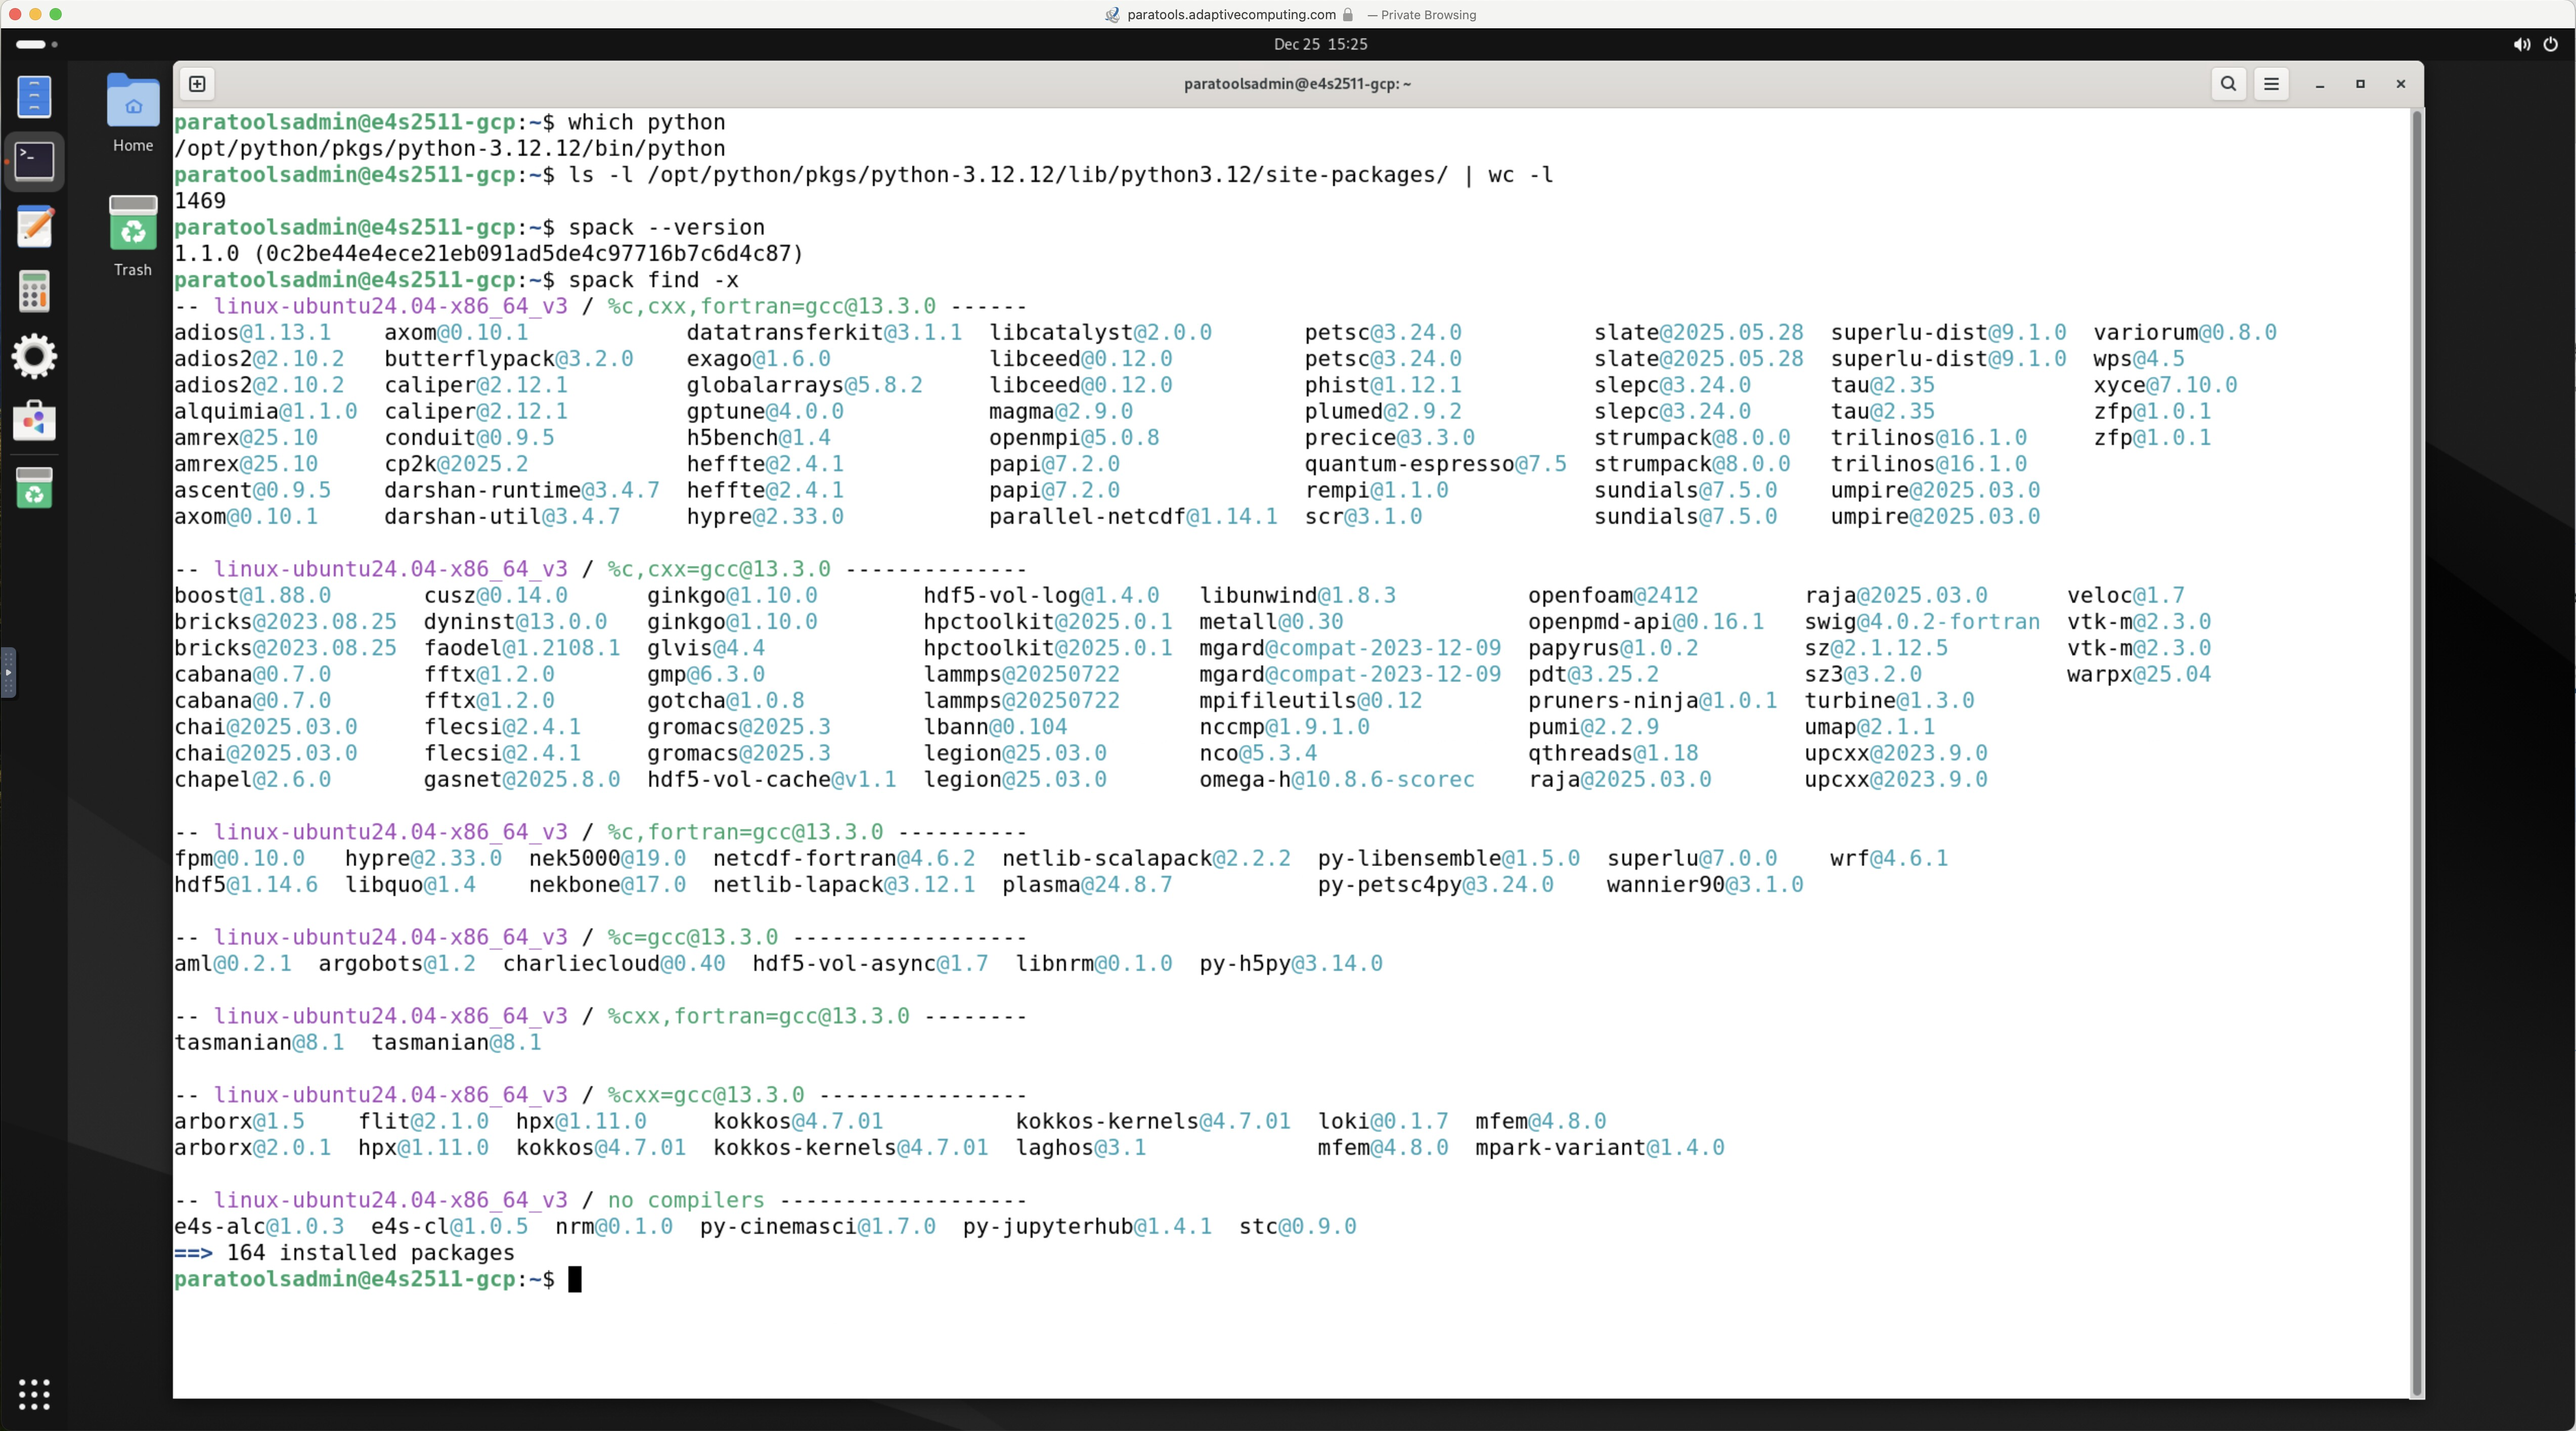
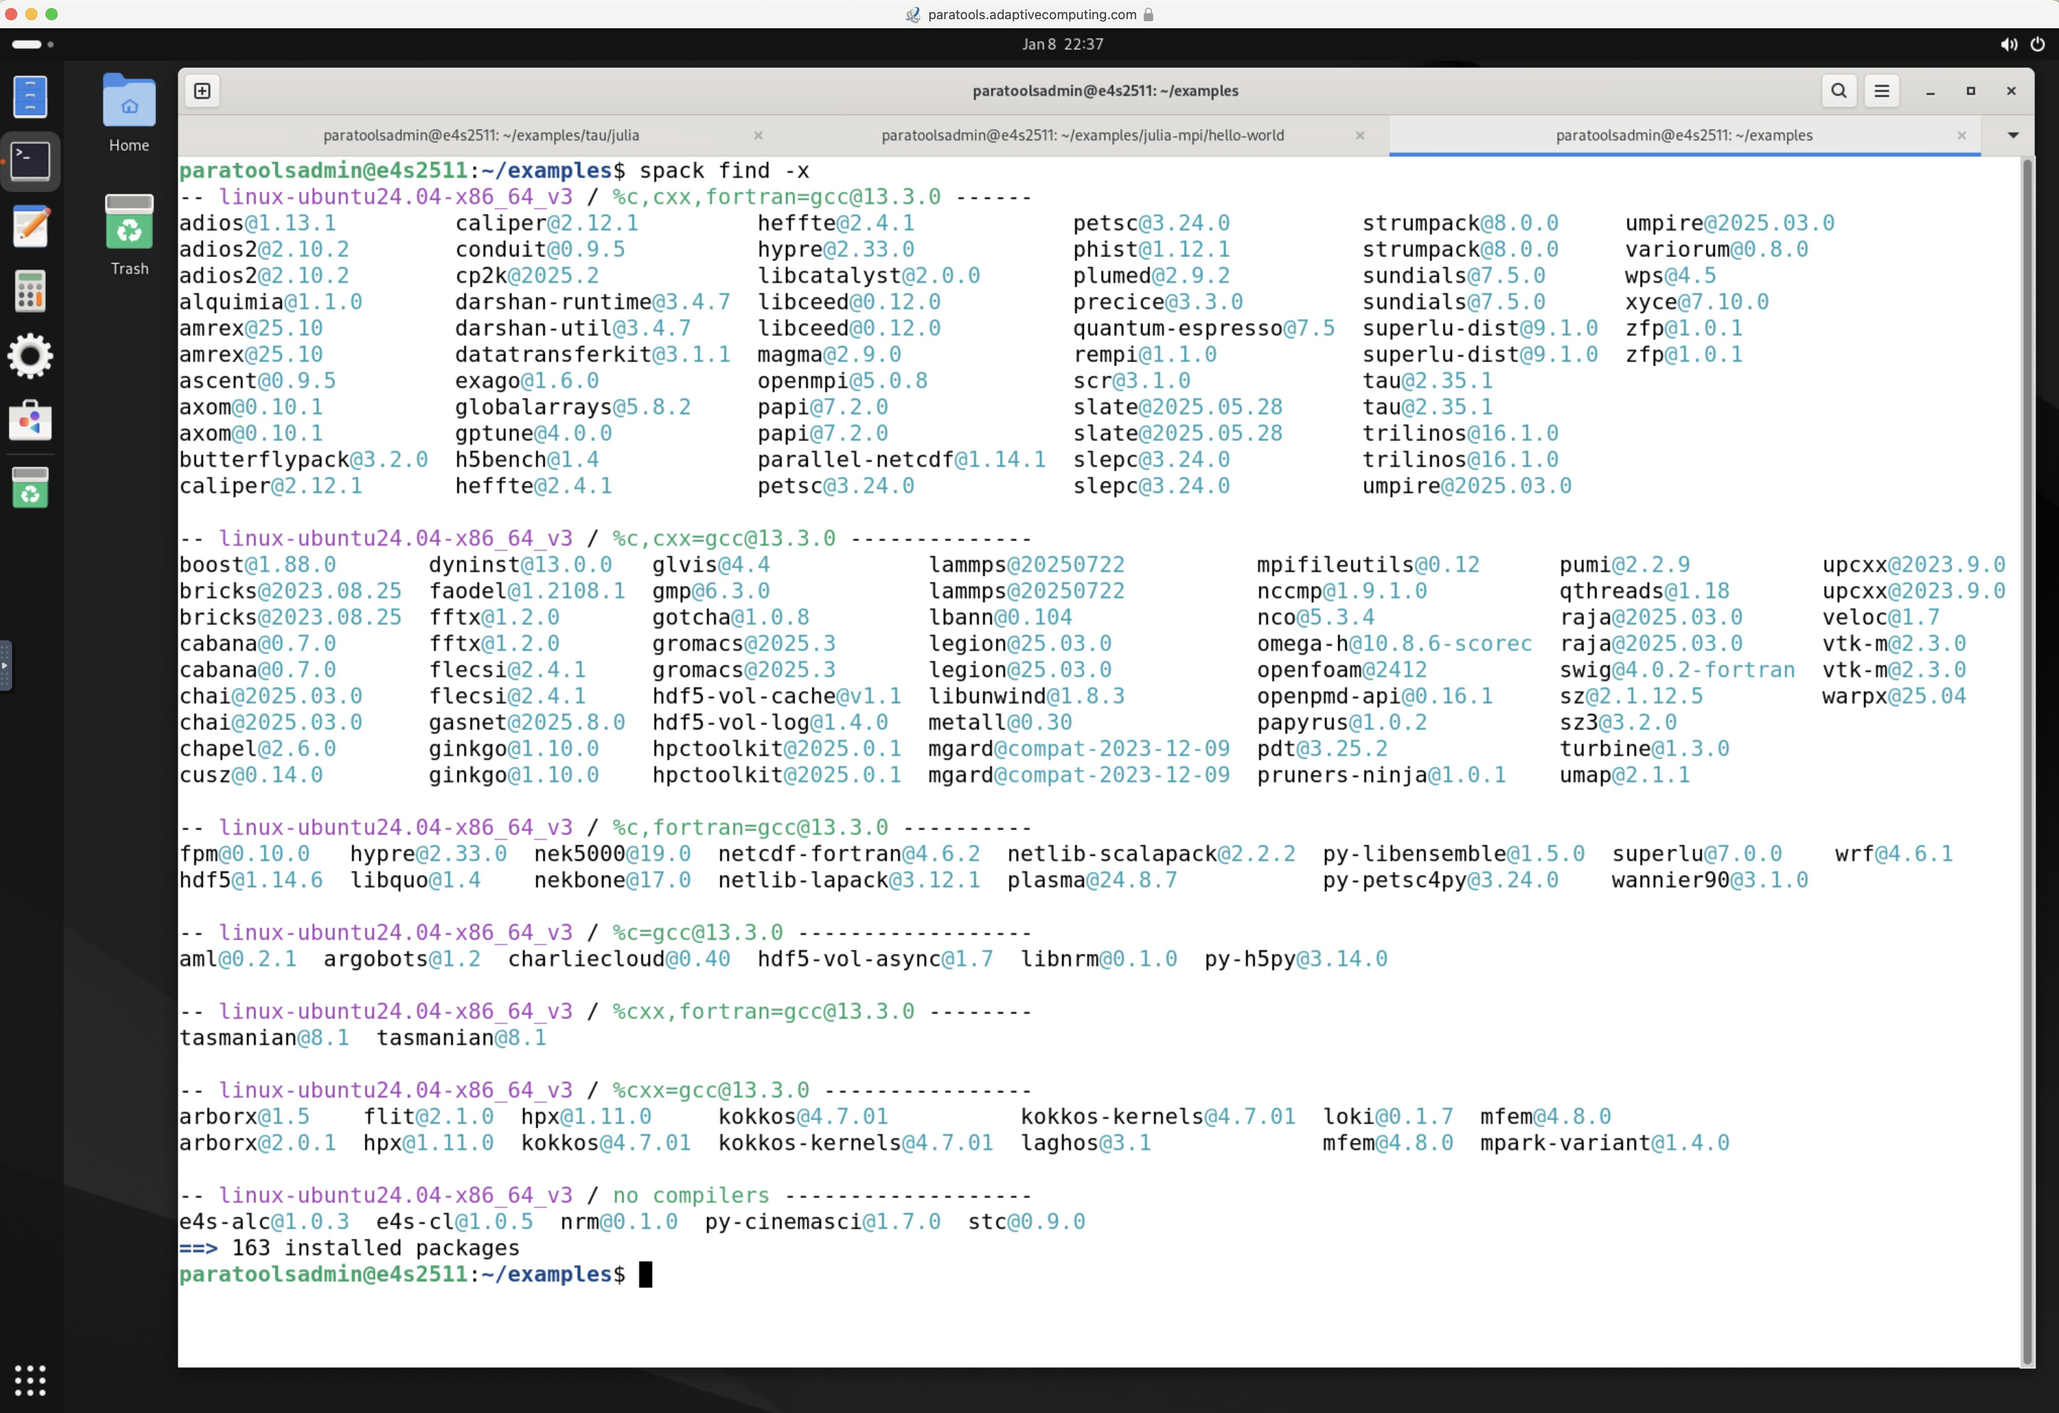
Update GCP gallery w/ new package listings & fix included yml files

Changed region(s): [[0.0, 0.0, 1.0, 1.0], [0.5926, 0.6534, 0.655, 0.6845], [0.0, 0.9646, 0.0312, 0.9957]]

diff --git a/docs/index.md b/docs/index.md
@@ -118,4 +118,12 @@ Browse screenshots showcasing the features and capabilities of ParaTools Pro for
   <p style="font-size: 0.9em; color: #666;">Automated cluster deployment</p>
 </div>
 
+<div style="text-align: center; border: 1px solid #ddd; padding: 10px; border-radius: 5px;">
+  <a href="assets/images/gcluster/e4s_25_11_packages.jpg" target="_blank">
+    <img src="assets/images/gcluster/e4s_25_11_packages_thumb.jpg" alt="AI/ML Packages" style="max-width: 100%; height: auto; cursor: pointer;">
+  </a>
+  <p><strong>AI/ML Package Library</strong></p>
+  <p style="font-size: 0.9em; color: #666;">Select (not exhaustive) listing of AI and machine learning packages</p>
+</div>
+
 </div>
